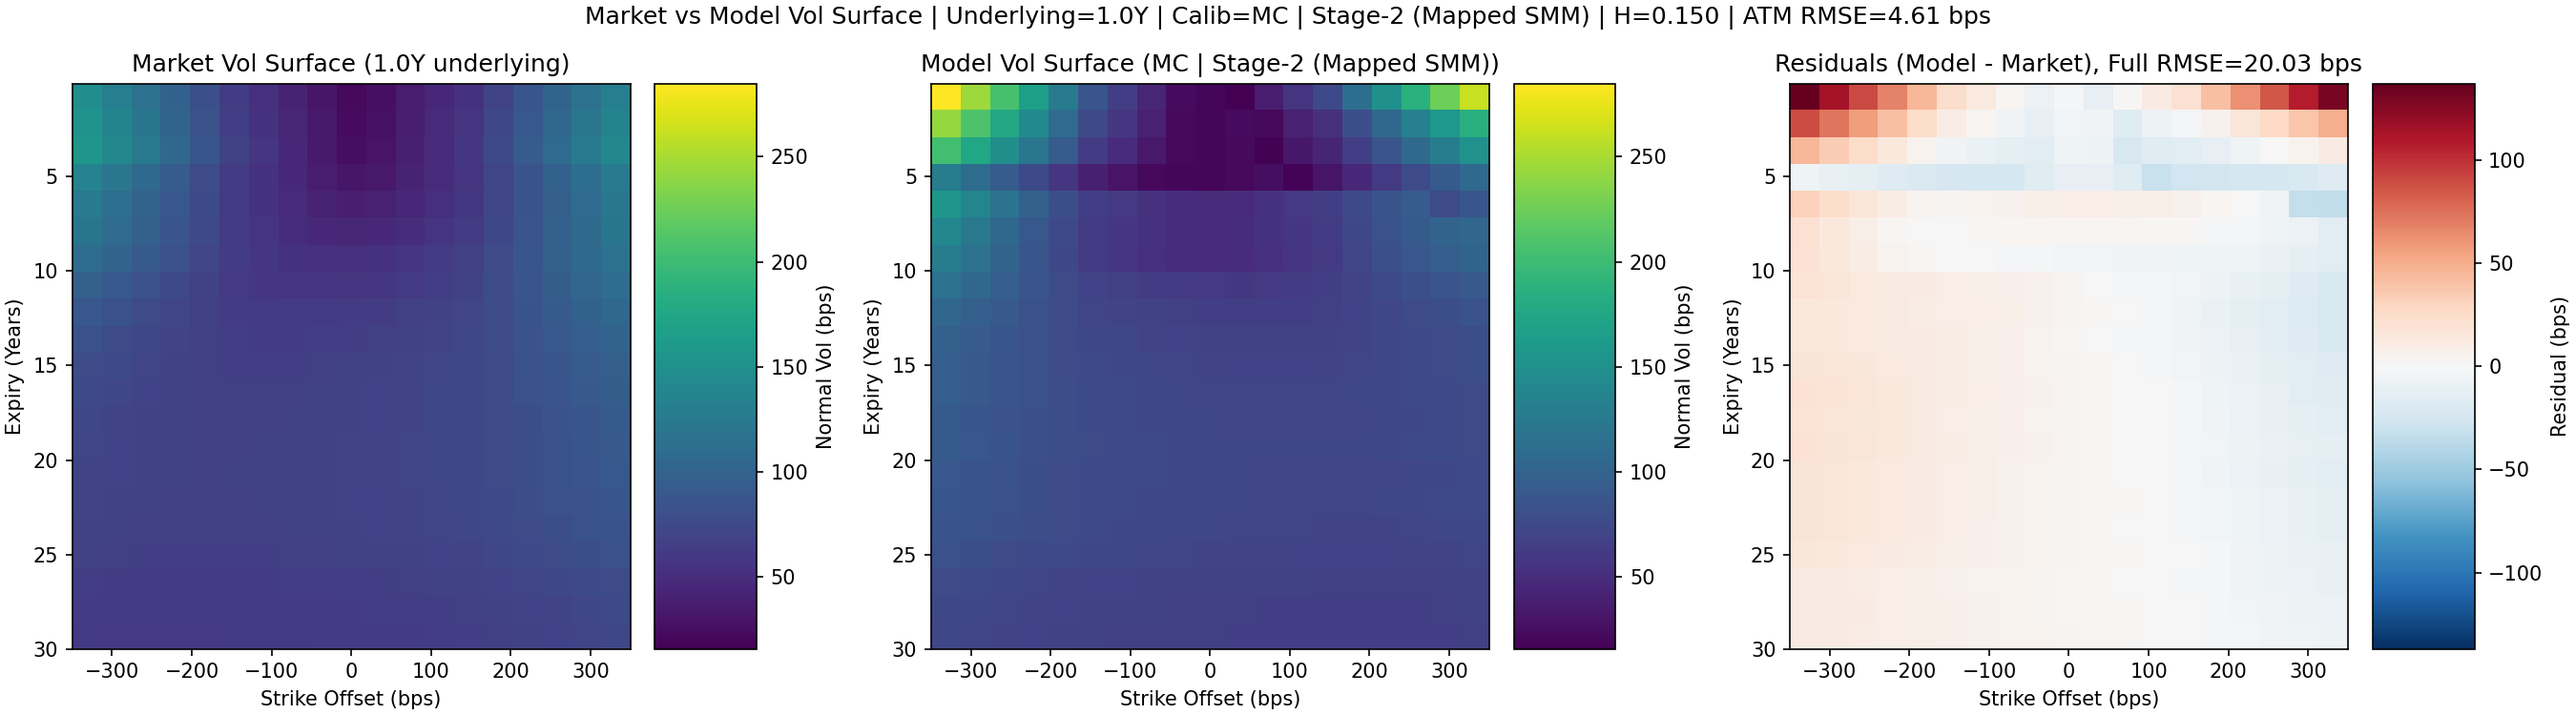
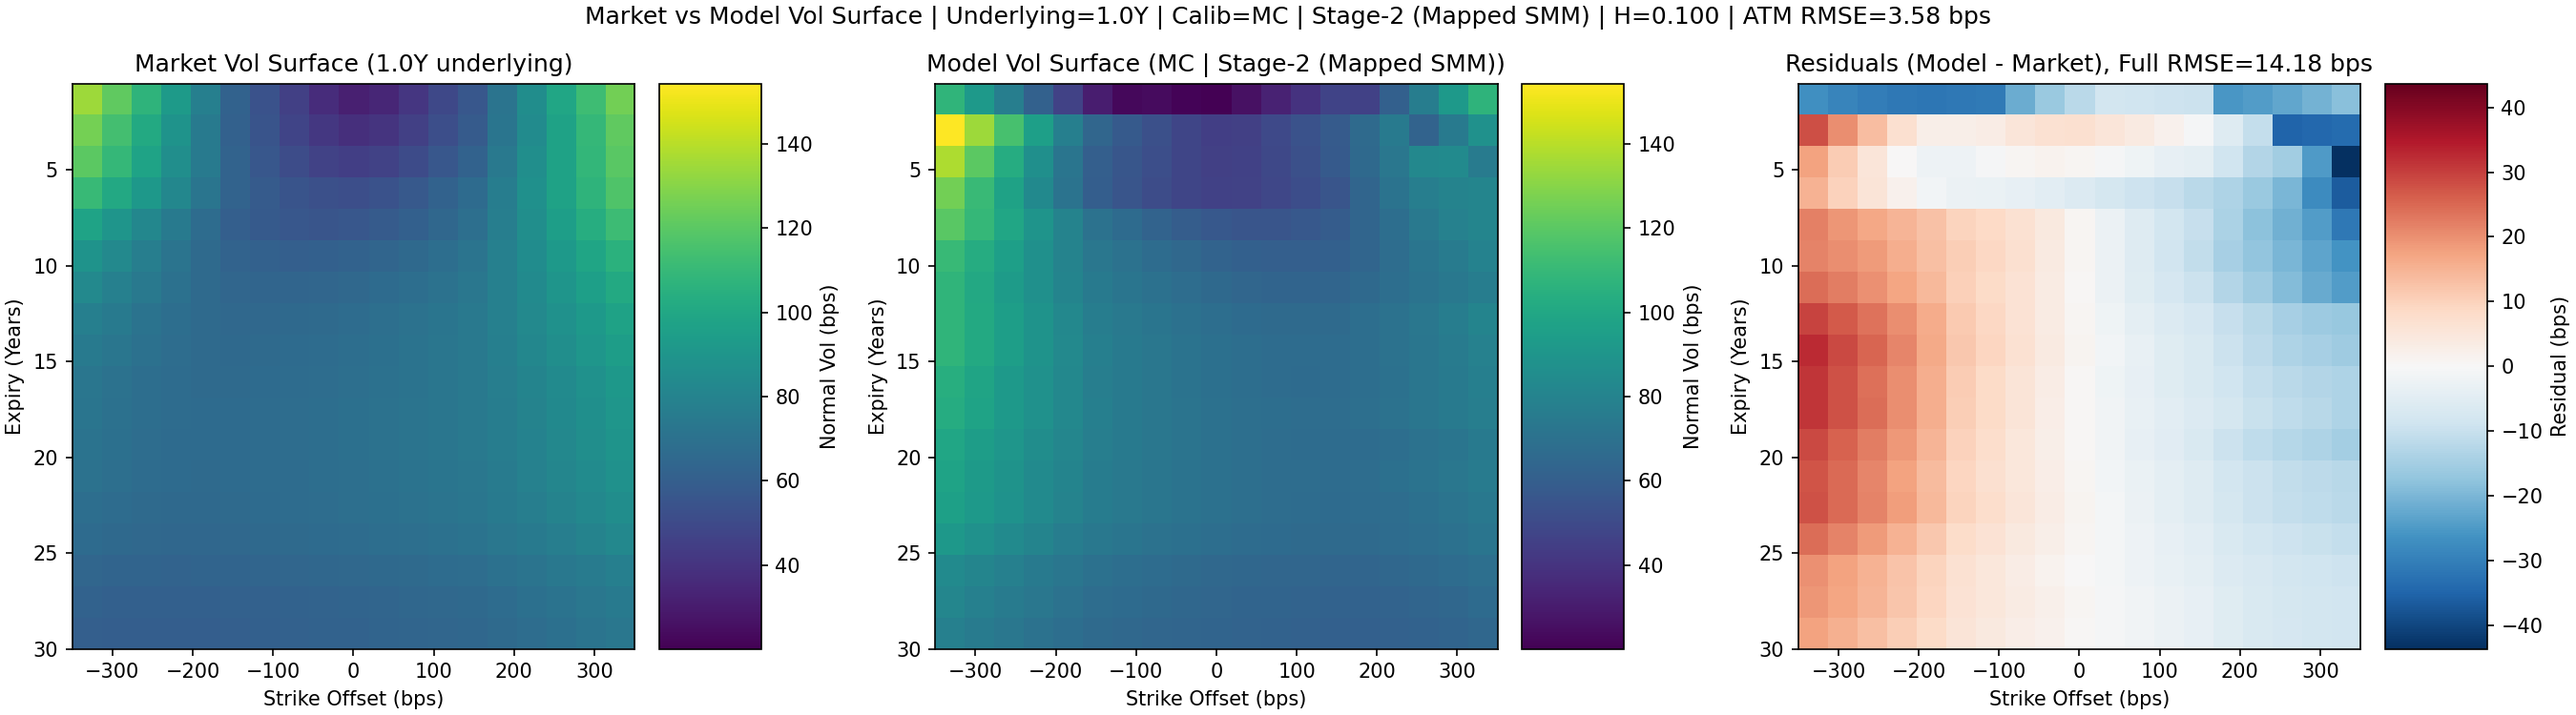
Removed AMMO from Stage 1

diff --git a/src/calibration.py b/src/calibration.py
@@ -172,17 +172,17 @@ class RoughSABRCalibrator:
         return alpha * ratio * (1.0 + drift)
 
 
-    def calibrate(self, method='MC', H_grid=np.array([0.05, 0.10, 0.15, 0.20, 0.25, 0.30, 0.35, 0.40, 0.45, 0.50])):
+    def calibrate(self, method='PURE_MC', H_grid=np.array([0.05, 0.10, 0.15, 0.20, 0.25, 0.30, 0.35, 0.40, 0.45, 0.50])):
         import time
         print("\n" + "="*60)
-        print(f"{f'ROUGH SABR 1D CALIBRATION (MAPPED NORMAL SURROGATE | {method.upper()})':^60}")
+        print(f"{f'ROUGH SABR 1D CALIBRATION (GLOBAL NU | {method.upper()})':^60}")
         print("="*60)
         
         best_rmse = np.inf
         best_H = None
         best_alphas = None
         best_rhos = None
-        best_nus = None
+        best_nu = None  # Global Nu
         
         atm_idx = np.argmin(np.abs(self.strike_offsets))
         base_market_alphas = self.vol_matrix.iloc[:, atm_idx].values.copy()
@@ -193,19 +193,16 @@ class RoughSABRCalibrator:
             step_start_time = time.time()
             print(f"Grid {i+1:2d}/{len(H_grid)} | Testing Hurst (H) = {H:.3f} | ", end="", flush=True)
             
-            current_alphas = np.zeros(self.n_exp)
-            current_rhos = np.zeros(self.n_exp)
-            current_nus = np.zeros(self.n_exp)
+            # --- STEP 1: PRE-OPTIMIZATION (SEEDED GLOBAL NU) ---
             
-            # --- STEP 1: PRE-OPTIMIZATION ---
+            # 1a. The "Dirty" Local Fit to find the neighborhood
+            local_nus = np.zeros(self.n_exp)
+            local_rhos = np.zeros(self.n_exp)
             for j, exp_t in enumerate(self.expiries):
                 mask = np.abs(self.T_flat - exp_t) < 1e-6
                 k_targets = self.K_flat[mask]
                 v_targets = self.market_vols[mask]
-                
                 base_a = base_market_alphas[j]
-                guess = [-0.1, 0.4] 
-                bounds = ([-0.999, 0.001], [0.999, 10.0])
                 
                 def slice_obj(p):
                     rho, nu = p[0], p[1]
@@ -213,74 +210,134 @@ class RoughSABRCalibrator:
                     v = self.rough_sabr_vol_ode(k_targets, np.full_like(k_targets, exp_t), alpha, rho, nu, H)
                     return (v - v_targets) * 10000.0
                     
-                res = least_squares(slice_obj, guess, bounds=bounds, method='trf')
-                current_rhos[j] = res.x[0]
-                current_nus[j] = res.x[1]
-                current_alphas[j] = self.exact_atm_alpha(exp_t, base_a, current_rhos[j], current_nus[j], H)
-            
-            if method != 'MC':
-                a_ts = PchipInterpolator(self.expiries, current_alphas, extrapolate=True)
-                r_ts = PchipInterpolator(self.expiries, current_rhos, extrapolate=True)
-                n_ts = PchipInterpolator(self.expiries, current_nus, extrapolate=True)
-                
-                v_full = self.rough_sabr_vol_ode(self.K_flat, self.T_flat, a_ts(self.T_flat), r_ts(self.T_flat), n_ts(self.T_flat), H)
-                rmse = np.sqrt(np.mean(((v_full - self.market_vols)*10000.0)**2))
+                res_local = least_squares(slice_obj, [-0.1, 0.4], bounds=([-0.999, 0.001], [0.999, 10.0]), method='trf')
+                local_rhos[j] = res_local.x[0]
+                local_nus[j] = res_local.x[1]
 
-            # --- STEP 2: AMMO LOOP ---
-            if method == 'MC':
+            # 1b. The Strict Global Fit using the smart seed
+            smart_nu_guess = np.clip(np.mean(local_nus), 0.05, 5.0)
+            guess = np.concatenate(([smart_nu_guess], local_rhos))
+            
+            lower_bounds = np.concatenate(([0.001], np.full(self.n_exp, -0.999)))
+            upper_bounds = np.concatenate(([10.0], np.full(self.n_exp, 0.999)))
+            
+            def global_obj(p):
+                nu = p[0]
+                rhos = p[1:]
+                
+                r_ts = PchipInterpolator(self.expiries, rhos, extrapolate=True)
+                r_flat = r_ts(self.T_flat)
+                
+                alphas = self.exact_atm_alpha(self.expiries, base_market_alphas, rhos, nu, H)
+                a_ts = PchipInterpolator(self.expiries, alphas, extrapolate=True)
+                a_flat = a_ts(self.T_flat)
+                
+                v_surr = self.rough_sabr_vol_ode(self.K_flat, self.T_flat, a_flat, r_flat, nu, H)
+                return (v_surr - self.market_vols) * 10000.0
+                
+            res = least_squares(global_obj, guess, bounds=(lower_bounds, upper_bounds), method='trf')
+            
+            current_nu = res.x[0]
+            current_rhos = res.x[1:]
+            current_alphas = self.exact_atm_alpha(self.expiries, base_market_alphas, current_rhos, current_nu, H)
+
+
+            # --- STEP 2: AMMO LOOP (GLOBAL NU) ---
+            if method == 'AMMO_ODE':
                 best_mc_rmse = np.inf
-                best_slice_alphas = current_alphas.copy()
-                best_slice_rhos = current_rhos.copy()
-                best_slice_nus = current_nus.copy()
+                best_iter_alphas = current_alphas.copy()
+                best_iter_rhos = current_rhos.copy()
+                best_iter_nu = current_nu
                 
                 for ammo_iter in range(3):
                     a_ts = PchipInterpolator(self.expiries, current_alphas, extrapolate=True)
                     r_ts = PchipInterpolator(self.expiries, current_rhos, extrapolate=True)
-                    n_ts = PchipInterpolator(self.expiries, current_nus, extrapolate=True)
                     
-                    v_mc = self.rough_sabr_vol_mc(self.K_flat, self.T_flat, a_ts(self.T_flat), r_ts(self.T_flat), n_ts(self.T_flat), H)
-                    v_ode = self.rough_sabr_vol_ode(self.K_flat, self.T_flat, a_ts(self.T_flat), r_ts(self.T_flat), n_ts(self.T_flat), H)
+                    v_mc = self.rough_sabr_vol_mc(self.K_flat, self.T_flat, a_ts(self.T_flat), r_ts(self.T_flat), current_nu, H)
+                    v_ode = self.rough_sabr_vol_ode(self.K_flat, self.T_flat, a_ts(self.T_flat), r_ts(self.T_flat), current_nu, H)
                     
                     mc_rmse = np.sqrt(np.mean(((v_mc - self.market_vols)*10000.0)**2))
                     if mc_rmse < best_mc_rmse:
                         best_mc_rmse = mc_rmse
-                        best_slice_alphas = current_alphas.copy()
-                        best_slice_rhos = current_rhos.copy()
-                        best_slice_nus = current_nus.copy()
+                        best_iter_alphas = current_alphas.copy()
+                        best_iter_rhos = current_rhos.copy()
+                        best_iter_nu = current_nu
                         
                     delta_k_full = v_mc - v_ode
                     
+                    # Compute ATM target adjustments
+                    target_atms = np.zeros(self.n_exp)
                     for j, exp_t in enumerate(self.expiries):
                         mask = np.abs(self.T_flat - exp_t) < 1e-6
                         k_targets = self.K_flat[mask]
-                        v_targets = self.market_vols[mask]
                         dk_targets = delta_k_full[mask]
-                        
-                        base_a = base_market_alphas[j]
-                        
                         atm_mask = (np.abs(k_targets) < 1e-6)
                         dk_atm = dk_targets[atm_mask][0] if np.any(atm_mask) else 0.0
+                        target_atms[j] = base_market_alphas[j] - dk_atm
+
+                    # Optimize AMMO Surrogate globally
+                    def ammo_global(p):
+                        nu = p[0]
+                        rhos = p[1:]
+                        r_ts = PchipInterpolator(self.expiries, rhos, extrapolate=True)
+                        r_flat = r_ts(self.T_flat)
                         
-                        target_atm = base_a - dk_atm
+                        alphas = self.exact_atm_alpha(self.expiries, target_atms, rhos, nu, H)
+                        a_ts = PchipInterpolator(self.expiries, alphas, extrapolate=True)
+                        a_flat = a_ts(self.T_flat)
                         
-                        guess = [current_rhos[j], current_nus[j]]
-                        bounds = ([-0.999, 0.001], [0.999, 10.0])
+                        v_surr = self.rough_sabr_vol_ode(self.K_flat, self.T_flat, a_flat, r_flat, nu, H)
+                        return (v_surr + delta_k_full - self.market_vols) * 10000.0
                         
-                        def ammo_slice(p):
-                            rho, nu = p[0], p[1]
-                            alpha = self.exact_atm_alpha(exp_t, target_atm, rho, nu, H)
-                            v_surr = self.rough_sabr_vol_ode(k_targets, np.full_like(k_targets, exp_t), alpha, rho, nu, H)
-                            return (v_surr + dk_targets - v_targets) * 10000.0
-                            
-                        res = least_squares(ammo_slice, guess, bounds=bounds, method='trf')
-                        current_rhos[j] = res.x[0]
-                        current_nus[j] = res.x[1]
-                        current_alphas[j] = self.exact_atm_alpha(exp_t, target_atm, current_rhos[j], current_nus[j], H)
+                    guess_ammo = np.concatenate(([current_nu], current_rhos))
+                    res_ammo = least_squares(ammo_global, guess_ammo, bounds=(lower_bounds, upper_bounds), method='trf')
+                    
+                    current_nu = res_ammo.x[0]
+                    current_rhos = res_ammo.x[1:]
+                    current_alphas = self.exact_atm_alpha(self.expiries, target_atms, current_rhos, current_nu, H)
                         
                 rmse = best_mc_rmse
-                current_alphas = best_slice_alphas
-                current_rhos = best_slice_rhos
-                current_nus = best_slice_nus
+                current_alphas = best_iter_alphas
+                current_rhos = best_iter_rhos
+                current_nu = best_iter_nu
+
+            # --- STEP 2: PURE MC POLISH (NO ODE SURROGATE) ---
+            elif method == 'PURE_MC':
+                print(f"   -> Switching to Pure MC Optimization (Fixed Seed)...")
+                
+                # We use the ODE-calibrated parameters as our starting point to save time
+                guess_mc = np.concatenate(([current_nu], current_rhos))
+                
+                def mc_global_obj(p):
+                    nu = p[0]
+                    rhos = p[1:]
+                    
+                    r_ts = PchipInterpolator(self.expiries, rhos, extrapolate=True)
+                    r_flat = r_ts(self.T_flat)
+                    
+                    # Compute ATM alphas
+                    alphas = self.exact_atm_alpha(self.expiries, base_market_alphas, rhos, nu, H)
+                    a_ts = PchipInterpolator(self.expiries, alphas, extrapolate=True)
+                    a_flat = a_ts(self.T_flat)
+                    
+                    # EVALUATE TRUE MC (Ignoring the flawed ODE entirely)
+                    v_mc = self.rough_sabr_vol_mc(self.K_flat, self.T_flat, a_flat, r_flat, nu, H)
+                    return (v_mc - self.market_vols) * 10000.0
+                
+                # We use diff_step=1e-3 to widen the finite-difference delta, 
+                # cutting through the MC Sobol noise to get a clean gradient.
+                res_mc = least_squares(mc_global_obj, guess_mc, bounds=(lower_bounds, upper_bounds), 
+                                       method='trf', diff_step=1e-3, ftol=1e-4, xtol=1e-4)
+                
+                current_nu = res_mc.x[0]
+                current_rhos = res_mc.x[1:]
+                current_alphas = self.exact_atm_alpha(self.expiries, base_market_alphas, current_rhos, current_nu, H)
+                
+                # Final evaluation for RMSE
+                a_ts = PchipInterpolator(self.expiries, current_alphas, extrapolate=True)
+                r_ts = PchipInterpolator(self.expiries, current_rhos, extrapolate=True)
+                v_final = self.rough_sabr_vol_mc(self.K_flat, self.T_flat, a_ts(self.T_flat), r_ts(self.T_flat), current_nu, H)
+                rmse = np.sqrt(np.mean(((v_final - self.market_vols)*10000.0)**2))
 
             step_time = time.time() - step_start_time
             print(f"Done! RMSE: {rmse:6.2f} bps | Time: {step_time:5.2f}s")
@@ -290,24 +347,25 @@ class RoughSABRCalibrator:
                 best_H = H
                 best_alphas = current_alphas.copy()
                 best_rhos = current_rhos.copy()
-                best_nus = current_nus.copy()
+                best_nu = current_nu
                 
         total_time = time.time() - start_time_total
         print(f"\nStatus : SUCCESS")
         print(f"Global Hurst (H): {best_H:.6f}")
-        print(f"Mean Nu         : {np.mean(best_nus):.4f}")
+        print(f"Global Nu       : {best_nu:.4f}")
         print(f"Best RMSE       : {best_rmse:.4f} bps")
         print(f"1D Calibration Total Time: {total_time:.2f}s")
         print("="*60)
         
-        self.alpha_ts = PchipInterpolator(self.expiries, best_alphas, extrapolate=True)
+        # We return a constant lambda function for nu so it plugs directly into main.py without breaking your Torch model setup
+        nu_func = lambda t: np.full_like(t, best_nu, dtype=float) if isinstance(t, np.ndarray) else float(best_nu)
         
         return {
-            'alpha_func': self.alpha_ts, 
+            'alpha_func': PchipInterpolator(self.expiries, best_alphas, extrapolate=True), 
             'H': best_H, 
             'rmse_bps': best_rmse,
             'rho_func': PchipInterpolator(self.expiries, best_rhos, extrapolate=True),
-            'nu_func': PchipInterpolator(self.expiries, best_nus, extrapolate=True)
+            'nu_func': nu_func
         }
             
 

diff --git a/config.py b/config.py
@@ -4,14 +4,14 @@ import numpy as np
 
 BETA_SABR = 0.0
 SHIFT_SABR = 0.0
-H_GRID = np.array([0.15])#, 0.20, 0.25, 0.30])   # 0.05, 0.10, , 0.20, 0.25, 0.30, 0.35, 0.40, 0.45, 0.50
+H_GRID = np.array([0.10, 0.15])#, 0.20, 0.25, 0.30])   # 0.05, 0.10, , 0.20, 0.25, 0.30, 0.35, 0.40, 0.45, 0.50
 
 
-CALI_MODE = "MC"   # polynomial, ODE, MC  
+CALI_MODE = "PURE_MC"   # polynomial, ODE, AMMO_ODE, PURE_MC
 CORR_MODE = "full"  # pca, full
 
 if CORR_MODE == "full":
-    CALI_MODE = "MC"
+    CALI_MODE = "PURE_MC"
 
 
 CHECK_MC = True
